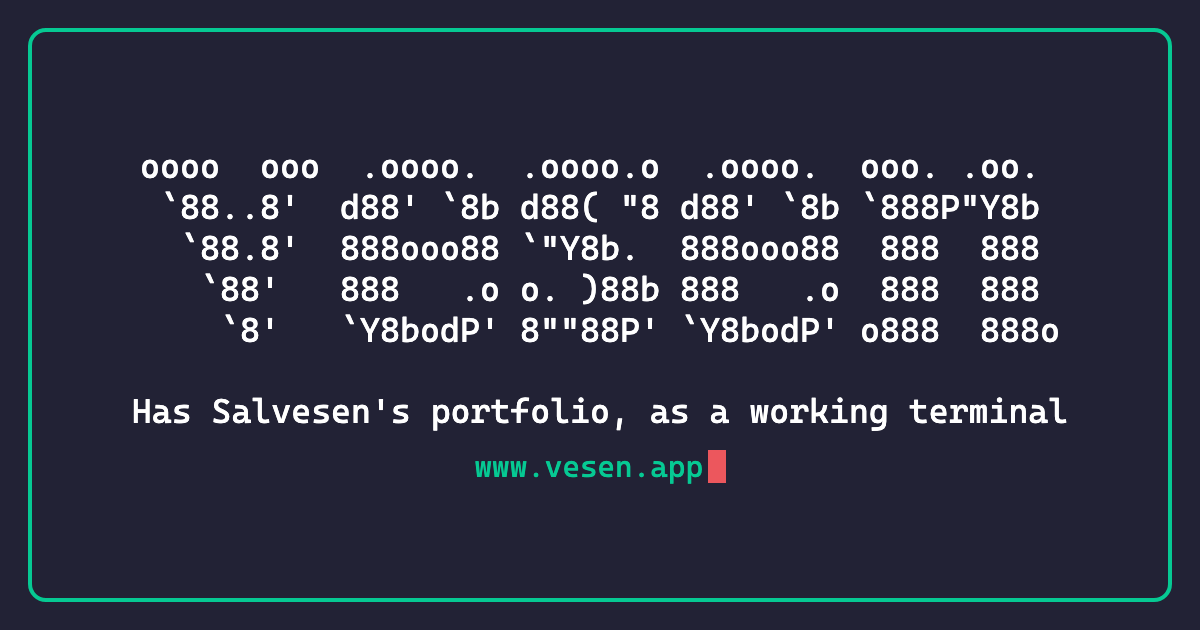
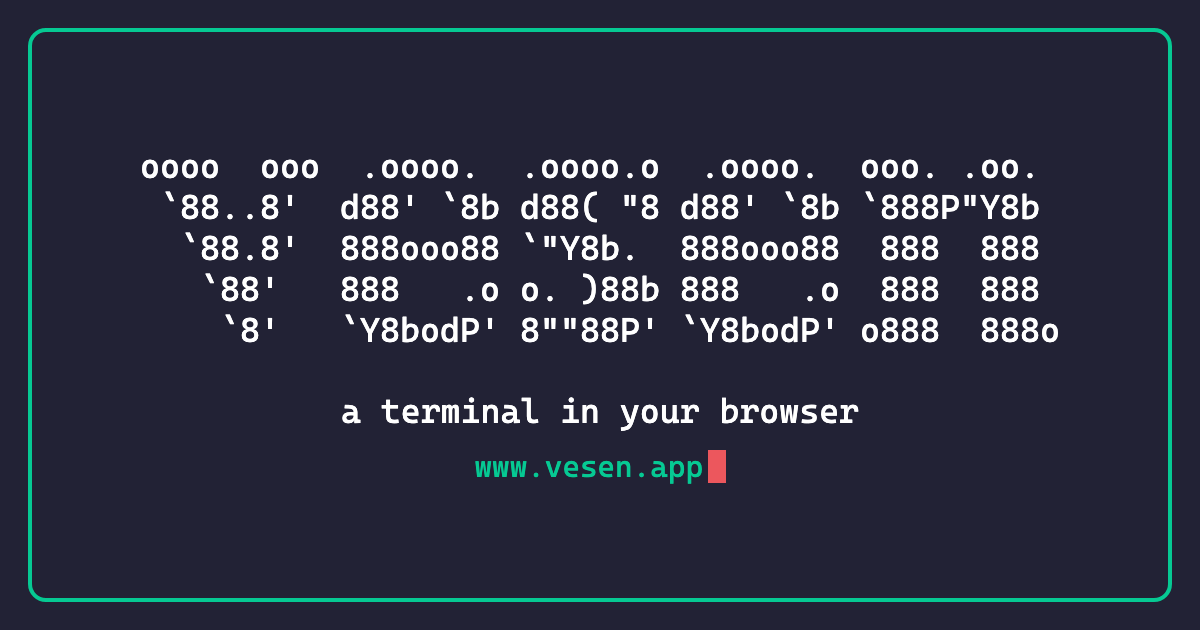
Link preview tagline: a terminal in your browser
Matches the banner's welcome line under the new wordmark in og.png,
the image alt text and the changelog.

Changed region(s): [[0.0925, 0.6333, 0.8942, 0.6937]]

diff --git a/index.html b/index.html
@@ -20,7 +20,7 @@
     <meta property="og:image:type" content="image/png" />
     <meta property="og:image:width" content="1200" />
     <meta property="og:image:height" content="630" />
-    <meta property="og:image:alt" content="The vesen logo in ASCII letters, with the line: Has Salvesen's portfolio, as a working terminal, www.vesen.app" />
+    <meta property="og:image:alt" content="The vesen logo in ASCII letters, with the line: a terminal in your browser, www.vesen.app" />
     <meta name="twitter:card" content="summary_large_image" />
 
     <!-- The SVG follows the theme (platform/head.ts); the PNGs stay on the default, swamphen. -->

diff --git a/CHANGELOG.md b/CHANGELOG.md
@@ -13,7 +13,7 @@ All notable changes to vesen are recorded here. The format follows [Keep a Chang
 - Every full-screen app (`sudo`'s show, `sl`, `cmatrix`, the pager of `man` and `less`, `nano`) opens inside the terminal's frame: the same gutter and green border, the cathode overlay, and the text glow of the phosphor and vintage modes. The QR presenter alone stays a plain white sheet, to be scanned.
 - The weather card's pictograms are wttr.in's again, as the site drew them before 2.0: the icon table of wego 2.1 (the program wttr.in renders with; ISC licence), row for row, each run in the role of the colour wego gives it. Open-Meteo's codes map to wego's icons as wttr.in groups the like conditions, and the sun shines at night as it does there. The okina of the rain drops joins the terminal font; the figure dash, the Greek psili and the lightning come from a fallback font and are pinned to one cell each, so the grid holds. `weather --legend` lists wego's names.
 - The weather card's `°F`, `7 days` and `my location` chips are words in brackets in the text, `[°F] [7 days] [my location]`, underlined under the pointer, not boxes.
-- The tab's title is just "Vesen". The link preview's title is "Vesen: Has Salvesen's portfolio as a working terminal", its image reads "Has Salvesen's portfolio, as a working terminal" under the logo, and the search description and the app manifest say the same.
+- The tab's title is just "Vesen". The link preview's title is "Vesen: Has Salvesen's portfolio as a working terminal", its image keeps "a terminal in your browser" under the new logo, and the search description and the app manifest say the same.
 - The banner's logo is a new wordmark: VESEN in figlet's Roman style (`o` serifs, `888` stems), drawn narrower than the font draws it, five rows of 46 columns, with the version after its last row. It is the same on every screen, scaled down to fit a phone rather than swapped for a smaller logo, and the link preview (`public/og.png`) is drawn from it. `scripts/art/wordmark.py`, which drew the old logo's shadow, is gone.
 - `fastfetch`'s OS logos are vesen 1.0's again: the apple, the bugdroid, the four panes and Tux, as they were.
 - Colour swatches are blocks again (`██`), as before 2.0's ASCII pass: fastfetch's palette and `theme ls`.
